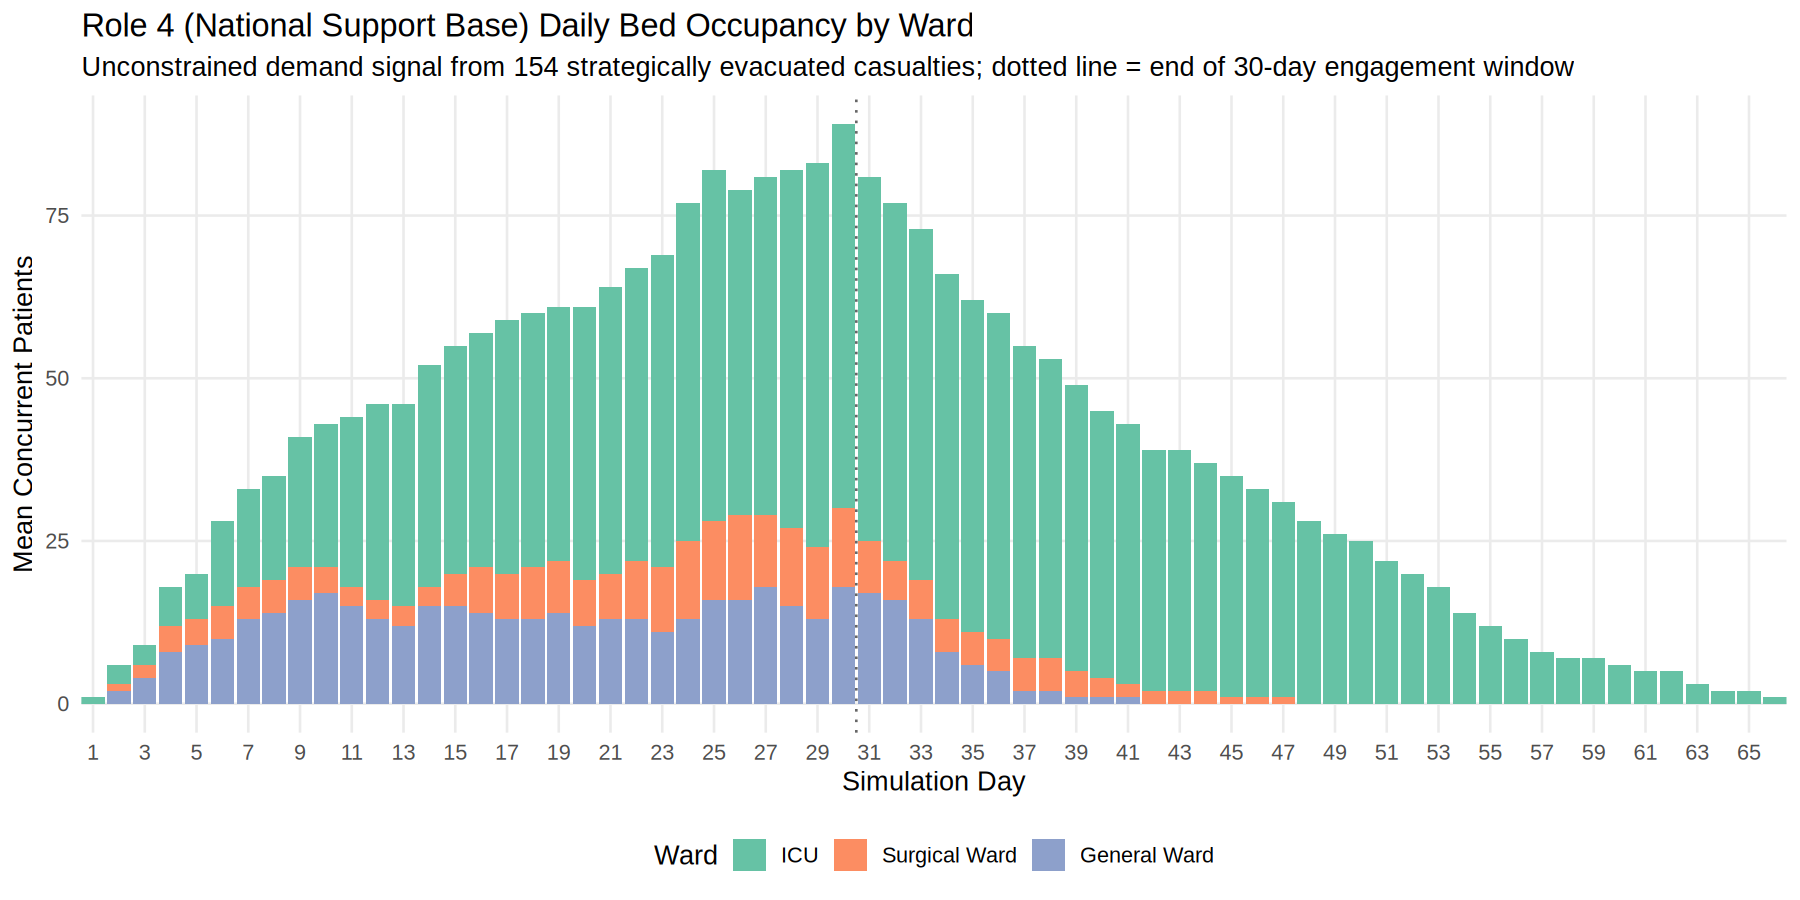
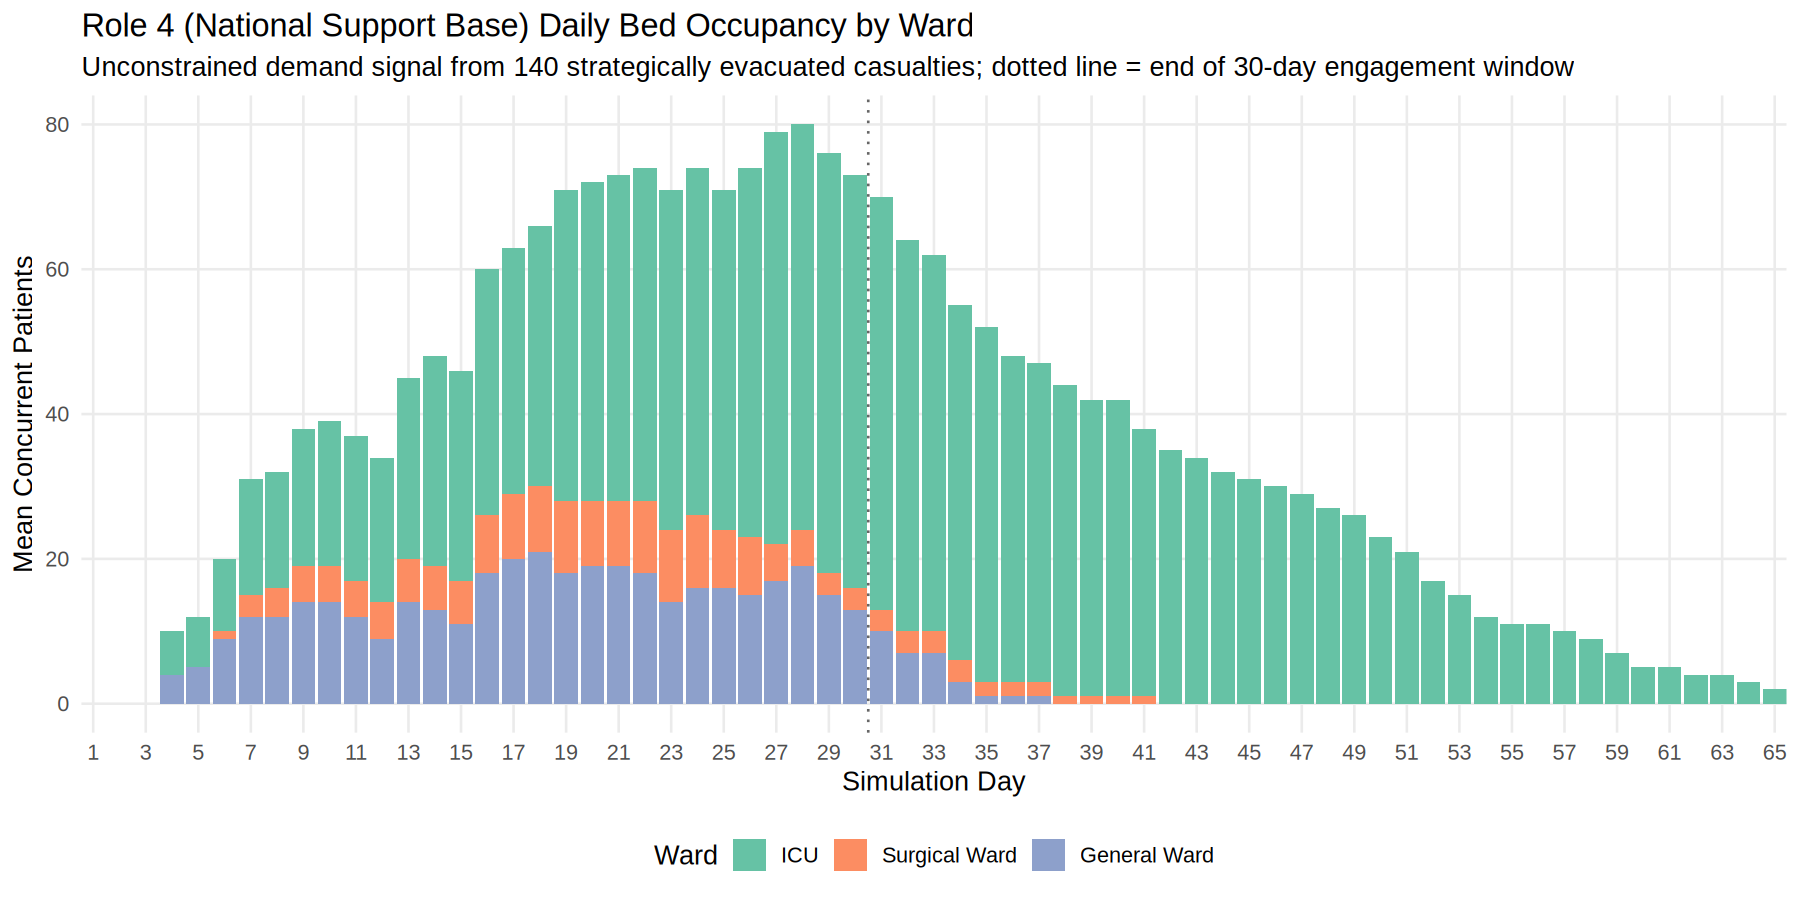
feat(issue-23): model strategic AME as a scheduled, capacity-constrained resource
Extends the Role 4 demand model with an actual simmer resource for
strategic AME transport, rather than treating evacuation as instantaneous.
AME is a single theatre-wide resource, available only on a configurable
periodic schedule (env_data.json vars.role4.ame.schedule_interval_days)
with a per-sortie failure/cancellation probability
(failure_probability) and fixed capacity per successful sortie
(capacity_per_sortie, reused from the original Role 4 work). Casualties
reaching the R2E Strategic Evac disposition now seize a real R2E bed —
ICU for Priority 1 surgical evacuees, Hold otherwise, mirroring the
existing Role 4 ward mapping — and queue on the "ame" resource until a
sortie has spare capacity, releasing the bed only once actually boarded.
AME capacity is additive (never reset), since boarded casualties never
release the resource; a fixed/reset capacity value was caught during
verification permanently capping total-ever-admitted the first time
server count reached it.

New outputs: ame_wait_time_summary (decision-to-boarding wait, n still
queued at end of run) and ame_backlog_plot (queue depth over time),
measuring the real constrained resource. The prior compute_ame_demand()
is retained as an explicit unconstrained-baseline comparison, now
grouped by evacuation_decision_day rather than the schedule-gated
evacuation_day. Role 4 (the national support base hospital) remains
unconstrained demand, now admitted from actual AME departure day rather
[…]

Changed region(s): [[0.0311, 0.1244, 0.9956, 0.84], [0.28, 0.0622, 0.3111, 0.0933], [0.0311, 0.5911, 0.0622, 0.6222]]

diff --git a/README.md b/README.md
@@ -1401,52 +1401,72 @@ flowchart TD
     V --> W["Release Hold Bed"]
     W --> X["Return to Duty"]
     X --> Z
-    T -- No --> Y["Strategic Evacuation"]
-    Y --> Z
+    T -- No --> Y{"Priority 1 &<br>Surgical?"}
+    Y -- Yes --> Y1["Seize ICU Bed<br>(Await AME)"]
+    Y -- No --> Y2["Seize Hold Bed<br>(Await AME)"]
+    Y1 --> Y3["Seize AME<br>(queues until sortie capacity)"]
+    Y2 --> Y3
+    Y3 --> Y4["Release ICU/Hold Bed"]
+    Y4 --> Z
 ```
 
 ---
 
 ### Role 4 (National Support Base) Demand Modelling
 
-Prior to Issue #23, casualties reaching the strategic evacuation decision (`r2e_evac = 1`, R2E Heavy Trajectory Phase 5) were recorded as departing the theatre system and produced no downstream output: there was no estimate of Role 4 (national support base) bed occupancy, and no derived metric for strategic aeromedical evacuation (AME) sortie demand. This sub-section completes the causal chain from theatre medical policy through to national health system demand — the outbound complement to Issue #18's inbound force-regeneration modelling (see [Force Regeneration and the Endogenous Feedback Loop](#6-force-regeneration-and-the-endogenous-feedback-loop)):
+Prior to Issue #23, casualties reaching the strategic evacuation decision (`r2e_evac = 1`, R2E Heavy Trajectory Phase 5) were recorded as departing the theatre system and produced no downstream output: there was no estimate of Role 4 (national support base) bed occupancy, and no derived metric for strategic aeromedical evacuation (AME) sortie demand. This section completes the causal chain from theatre medical policy through to national health system demand — the outbound complement to Issue #18's inbound force-regeneration modelling (see [Force Regeneration and the Endogenous Feedback Loop](#6-force-regeneration-and-the-endogenous-feedback-loop)):
 
 ```
 Theatre policy → evacuation rate → force depletion        (Issue #18)
-Theatre policy → evacuation rate → Role 4 load             (Issue #23, this section)
+Theatre policy → evacuation rate → Role 4 load             (Issue #23)
+Theatre policy → AME schedule/capacity → evacuation delay   (Issue #23 follow-up, this section)
 ```
 
-Role 4 is modelled as **unconstrained demand**, not as a simmer resource with finite capacity: `compute_role4_census()` and `compute_ame_demand()` (`R/analysis.R`) run as a post-simulation calculation over the evacuation event log, consistent with the model's purpose as a theatre-level demand estimation tool rather than a capacity planning model for the national support base. The output is a demand signal for national planners, not a queuing outcome — see Limitations for the consequence of this design choice.
+The model has two distinct layers, developed in two stages. **Role 4** (the national support base hospital) is modelled as **unconstrained demand**: `compute_role4_census()` (`R/analysis.R`) is a post-simulation calculation over the evacuation event log, consistent with the model's purpose as a theatre-level demand estimation tool rather than a capacity planning model for the national support base — see Limitations for the consequence of this design choice. **Strategic AME** (the transport that gets a casualty from R2E to Role 4), by contrast, *is* modelled as a constrained simmer resource: a single theatre-wide `"ame"` resource, available only on a configurable schedule with a per-sortie failure probability and fixed capacity, seized only from the R2E Heavy Strategic Evac disposition. A casualty who reaches that disposition continues to occupy a real R2E bed — not merely an entry in a post-simulation log — for as long as it takes a scheduled sortie to have spare capacity.
 
-**Attribute capture.** At the single point in the model where a casualty is assigned to strategic evacuation (R2E Heavy Trajectory, Phase 5 — Final Disposition), four attributes are captured: `injury_type` (1 = WIA, 2 = DNBI; set at R1 arrival from the casualty's generator-assigned name), `priority` (already captured at R1), `treatment_received` (1 if the casualty underwent DAMCON surgery at either R2B or R2E, else 0), and `evacuation_day` (the simulation day, 1-indexed, on which `r2e_evac` was set).
+**Attribute capture.** At the point a casualty is assigned to strategic evacuation (R2E Heavy Trajectory, Phase 5 — Final Disposition), `r2e_evac = 1` is set along with `evacuation_decision_day` (the simulation day the disposition was decided) and `treatment_received` (1 if the casualty underwent DAMCON surgery at either R2B or R2E, else 0); `priority` and `injury_type` were already captured at R1. The casualty then seizes an R2E bed and queues for AME (see below); only once actually boarded are `ame_departure_time`, `evacuation_day` (the simulation day of *actual* departure), and `ame_wait_minutes` (`ame_departure_time − r2e_departure_time`) set. `r2e_departure_time` itself keeps its original meaning — clinical care concluded, disposition decided — so the pre-existing R2E Dwell Time KPI (Domain 2) is unaffected by this section; AME wait is deliberately tracked as a separate metric rather than folded into clinical dwell.
 
-**Length-of-stay categories and ward mapping.** Each evacuated casualty is assigned to one of four length-of-stay (LoS) categories, each parameterised as a triangular distribution in `env_data.json` (`vars.role4.los_*`), and a ward category for the occupancy census:
+**Length-of-stay categories and ward mapping.** Each evacuated casualty is assigned to one of four length-of-stay (LoS) categories, each parameterised as a triangular distribution in `env_data.json` (`vars.role4.los_*`), and a ward category used both for the Role 4 occupancy census *and* — new in this section — to decide which R2E bed type a casualty occupies while awaiting AME:
 
-| LoS category | Assignment criteria | Ward | `env_data.json` key |
-|---|---|---|---|
-| P1 Surgical | Priority 1, `treatment_received = 1` | ICU | `los_p1_surgical` |
-| P1 Non-Surgical | Priority 1, `treatment_received = 0` | Surgical Ward | `los_p1_nonsurgical` |
-| P2 | Priority 2 (any `treatment_received`) | Surgical Ward | `los_p2` |
-| P3 / DNBI | Priority 3 WIA, or any DNBI casualty regardless of priority | General Ward | `los_p3_dnbi` |
+| LoS category | Assignment criteria | Ward | R2E bed occupied while awaiting AME | `env_data.json` key |
+|---|---|---|---|---|
+| P1 Surgical | Priority 1, `treatment_received = 1` | ICU | ICU bed | `los_p1_surgical` |
+| P1 Non-Surgical | Priority 1, `treatment_received = 0` | Surgical Ward | Hold bed | `los_p1_nonsurgical` |
+| P2 | Priority 2 (any `treatment_received`) | Surgical Ward | Hold bed | `los_p2` |
+| P3 / DNBI | Priority 3 WIA, or any DNBI casualty regardless of priority | General Ward | Hold bed | `los_p3_dnbi` |
+
+R2E has no physical Surgical Ward or General Ward bed type — only ICU and Hold — so both non-ICU ward categories share the R2E `hold_bed` pool while awaiting AME.
 
 > **MODEL ASSUMPTION — Role 4 Ward/LoS Category Mapping:** DNBI casualties are assigned the P3/DNBI length-of-stay category and General Ward irrespective of their in-theatre triage priority, and Priority 2 casualties are assigned Surgical Ward irrespective of whether they underwent a theatre-level surgical procedure.
 > **Basis:** Informed estimation. DNBI conditions (disease, non-battle injury, battle fatigue) are treated as inherently lower-acuity for national-level length-of-stay purposes, consistent with this model's existing treatment of `dnbi_type` for DOW exemption and RTD sub-typing (see [Died of Wounds](#died-of-wounds) and [Return to Duty](#return-to-duty)). Priority 2 casualties are assumed to require ongoing orthopaedic/surgical-specialty ward management at the national support base even where no operative procedure occurred in theatre, following the general LoS gradient by injury severity described in Nessen et al. (2008) [[52]](#References). No open-access source tabulates Role 4 ward assignment by this exact category scheme.
 > **Uncertainty:** High
-> **Consequence if wrong:** A different mapping (e.g. splitting P2 by `treatment_received`, or assigning DNBI its own ward category) would redistribute occupancy between Surgical Ward and General Ward without changing total Role 4 bed-days; ICU occupancy (P1 Surgical only) is the least sensitive to this assumption.
+> **Consequence if wrong:** A different mapping (e.g. splitting P2 by `treatment_received`, or assigning DNBI its own ward category) would redistribute occupancy between Surgical Ward and General Ward without changing total Role 4 bed-days, and would redistribute which R2E bed type (ICU vs Hold) AME-awaiting casualties occupy; ICU occupancy (P1 Surgical only) is the least sensitive to this assumption.
 
 > **MODEL ASSUMPTION — Role 4 Length-of-Stay Distribution Parameters:** The four triangular LoS distributions (`env_data.json` `vars.role4.los_p1_surgical/los_p1_nonsurgical/los_p2/los_p3_dnbi`; min/mode/max in days: 10/21/45, 7/14/30, 5/10/21, 2/5/14 respectively) are informed estimates reflecting a general severity gradient — longest stays for surgical Priority 1 casualties, shortest for DNBI/Priority 3 — rather than values extracted directly from a single tabulated source.
 > **Basis:** Informed estimation (Source Prioritisation level 5), directionally consistent with the Role 4/CONUS length-of-stay patterns for combat casualties by injury category described in Nessen et al. (2008) [[52]](#References). This source has not been used to extract exact per-category day counts for this model; a direct extraction of tabulated LoS data from it is identified as further development work.
 > **Uncertainty:** High
 > **Consequence if wrong:** Peak Role 4 occupancy and total bed-days scale roughly linearly with the LoS parameters; an error in the mode values directly biases the peak occupancy estimate reported to national planners, but does not affect any theatre-level (R1/R2B/R2E) output, since Role 4 census is computed downstream of, and independent from, all in-theatre simulation logic.
 
-**AME sortie demand.** Strategic AME sortie demand is a secondary, derived planning metric — not a simulated resource constraint — computed as `sorties_required = ceiling(daily_evacuation_count / ame_capacity_per_sortie)`, with `ame_capacity_per_sortie` configured in `env_data.json` (`vars.role4.ame.capacity_per_sortie`).
+**Strategic AME resource.** AME is available only at scheduled sortie opportunities, every `vars.role4.ame.schedule_interval_days` days (`build_ame_sortie_trajectory()`, driven by its own generator in `run_once()`, `R/replication.R`). At each opportunity, the sortie is cancelled with probability `vars.role4.ame.failure_probability`; if it flies, `vars.role4.ame.capacity_per_sortie` casualties' worth of capacity is added to the theatre-wide `"ame"` simmer resource (`set_capacity(..., mod = "+")`). Casualties queue on `"ame"` in the order they reach the Strategic Evac disposition (FIFO) and are admitted as soon as capacity allows, continuing to occupy their R2E bed the entire time.
 
-> **MODEL ASSUMPTION — AME Platform Capacity per Sortie:** A single strategic AME sortie is assumed to carry 20 casualties.
-> **Basis:** Informed estimation. AJP-4.10(B) [[21]](#References) establishes strategic AME as a planning function without prescribing a universal per-sortie patient capacity, since actual capacity depends on the specific platform, litter/ambulatory mix, and medical crew configuration deployed for a given sortie. No open-access source tabulating a specific per-sortie patient capacity figure has been identified; no casualty-acuity-dependent capacity discount is applied either — the model treats all evacuees as consuming one unit of sortie capacity regardless of LoS category or ward assignment.
+> **MODEL ASSUMPTION — AME Schedule Interval and Failure Probability Defaults:** The shipped defaults are a sortie every 3 days (`schedule_interval_days = 3`) with a 15% cancellation probability (`failure_probability = 0.15`).
+> **Basis:** Informed estimation. AJP-4.10(B) [[21]](#References) establishes strategic AME as a planning function without prescribing a specific cadence or failure rate — actual tasking frequency and weather/airframe cancellation rates are platform-, theatre-, and campaign-specific and not tabulated in any open-access source identified for this model.
 > **Uncertainty:** High
-> **Consequence if wrong:** Total and peak daily sortie demand scale inversely with this parameter; sortie demand is proportional to daily evacuation count by construction, so the demand *pattern* (which days are busiest) is unaffected by the capacity value chosen, only the absolute sortie count.
+> **Consequence if wrong:** These two parameters jointly determine the AME backlog: a longer interval or higher failure rate increases both the peak backlog (see AME Backlog Over Time, Domain 7) and mean wait time roughly proportionally, without changing the underlying evacuation demand they are being compared against.
 
-**Multi-run aggregation.** When `analyse_run()` is called with multi-replication monitoring data (Issue #1 framework), peak Role 4 occupancy and total AME sortie demand are additionally summarised as mean ± 95% CI across replications (`role4_replication_summary`, `ame_replication_summary`), using the same t-distribution CI convention as `summarise_replications()` (`R/replication.R`).
+> **MODEL ASSUMPTION — AME Capacity Banking:** Unclaimed capacity from an under-subscribed sortie is not lost — it persists on the `"ame"` resource and can be claimed by a later arrival, including between scheduled sorties, rather than being wasted the way a real aircraft's empty seats would be once it departs.
+> **Basis:** Engineering necessity, not a doctrinal claim. Casualties who board AME never release the resource (permanent consumption, matching a one-way strategic evacuation), so `"server"` (casualties ever admitted) is monotonically non-decreasing for the whole run. Setting capacity to an *absolute* value at each sortie (rather than adding to it) would cap total-ever-admitted at that value the first time the server count reaches it — the resource would never "reopen" for a later sortie, which was caught as a bug during this section's own verification (see the test plan). Additive capacity is the only mechanism compatible with never-release semantics.
+> **Uncertainty:** Low (mechanism), Medium (real-world fidelity)
+> **Consequence if wrong:** Under configurations where demand comfortably exceeds no single sortie's capacity (the shipped default — see the seed-42 results below), banking rarely matters in practice, since the backlog is rarely fully cleared between sorties. It would matter more under a configuration with infrequent, large-capacity sorties against sparse demand, where a real system would waste more capacity than this model does.
+
+> **MODEL ASSUMPTION — AME Boarding Order (FIFO, No Acuity Priority):** Casualties board AME strictly in the order they reached the Strategic Evac disposition — no Priority 1 casualty is boarded ahead of a Priority 3/DNBI casualty who queued earlier.
+> **Basis:** Simmer's default resource queuing discipline (FIFO), used as the simplest tractable default. Real strategic AME tasking doctrine (AJP-4.10(B) [[21]](#References)) prioritises by clinical acuity, not queue order.
+> **Uncertainty:** High
+> **Consequence if wrong:** Under a saturated schedule (backlog rarely clears — see Limitations), FIFO boarding could leave a high-acuity casualty waiting behind several lower-acuity casualties who queued earlier, understating the wait-time benefit acuity-based prioritisation would provide to Priority 1 casualties specifically. Aggregate wait-time statistics (mean, p10/p90 across all evacuees) are unaffected by boarding order — only the distribution of wait time *by priority* would change.
+
+**Unconstrained-baseline AME demand.** `compute_ame_demand()` (`R/analysis.R`) is retained as a separate, deliberately *unconstrained* comparison: `sorties_required = ceiling(daily_evacuation_count / ame_capacity_per_sortie)`, grouped by `evacuation_decision_day` (not the schedule-gated `evacuation_day`) — i.e. "how many sorties would same-day, uncapped AME need to clear each day's decisions." Comparing this baseline against the real constrained resource's actual throughput (`ame_wait_time_summary`, `ame_backlog_plot` — see Domain 7 below) is what makes the schedule's adequacy (or inadequacy) visible.
+
+**Multi-run aggregation.** When `analyse_run()` is called with multi-replication monitoring data (Issue #1 framework), peak Role 4 occupancy and the unconstrained-baseline total sortie count are additionally summarised as mean ± 95% CI across replications (`role4_replication_summary`, `ame_replication_summary`), using the same t-distribution CI convention as `summarise_replications()` (`R/replication.R`).
 
 ---
 
@@ -1566,18 +1586,32 @@ The simulation produces a defined set of Key Performance Indicators (KPIs) organ
 ### Domain 7 — Strategic Evacuation and National Support Base Demand
 
 > **MODEL OUTPUT — Role 4 Daily Bed Occupancy by Ward:**
-> Mean concurrent Role 4 (national support base) patients by ward category (ICU, Surgical Ward, General Ward) per simulation day, derived from strategically evacuated casualties' assigned length-of-stay (see [Role 4 (National Support Base) Demand Modelling](#role-4-national-support-base-demand-modelling)).
+> Mean concurrent Role 4 (national support base) patients by ward category (ICU, Surgical Ward, General Ward) per simulation day, derived from strategically evacuated casualties' assigned length-of-stay, admitted from the day of *actual* AME departure (`evacuation_day`), not the day the evacuation decision was made (see [Role 4 (National Support Base) Demand Modelling](#role-4-national-support-base-demand-modelling)).
 > **Doctrinal basis:** AJP-4.10 [[21]](#References) mandates that Role 4 requirements be derived from theatre casualty estimates.
 > **Criteria:** C2, C3, C5
-> **Computation:** `compute_role4_census()` equivalent logic in `analyse_run()`: assign `los_category`/`ward` from `injury_type`, `priority`, `treatment_received`; draw `los_days` from the matching triangular distribution (`env_data$vars$role4`); expand each casualty into one row per occupied day between `evacuation_day` and `evacuation_day + ceiling(los_days) - 1`; average concurrent occupancy per `(day, ward)` across replications.
-> **Note:** This is an unconstrained demand signal, not a capacity-gated queuing outcome — see Limitations.
+> **Computation:** `compute_role4_census()` equivalent logic in `analyse_run()`: assign `los_category`/`ward` from `injury_type`, `priority`, `treatment_received` for casualties with a completed AME departure (`!is.na(evacuation_day)`); draw `los_days` from the matching triangular distribution (`env_data$vars$role4`); expand each casualty into one row per occupied day between `evacuation_day` and `evacuation_day + ceiling(los_days) - 1`; average concurrent occupancy per `(day, ward)` across replications.
+> **Note:** Role 4 itself remains an unconstrained demand signal, not a capacity-gated queuing outcome (see Limitations) — but its *input* (which casualties have reached Role 4, and when) is now gated by the real constrained AME resource below, not merely the evacuation decision.
 
-> **MODEL OUTPUT — Strategic AME Sortie Demand:**
-> Daily and cumulative strategic aeromedical evacuation sortie requirements, derived from daily strategic evacuation counts and a configurable platform capacity.
+> **MODEL OUTPUT — Unconstrained-Baseline AME Sortie Demand:**
+> Daily and cumulative strategic aeromedical evacuation sortie requirements *if* AME had same-day, uncapped capacity — a theoretical comparison baseline, not a prediction of actual throughput (see the real constrained-resource outputs below).
 > **Doctrinal basis:** AJP-4.10 [[21]](#References) strategic evacuation planning function.
 > **Criteria:** C2, C4, C5
-> **Computation:** `sorties_required = ceiling(daily_evacuation_count / ame_capacity_per_sortie)` (`env_data$vars$role4$ame$capacity_per_sortie`); `cumulative_sorties = cumsum(sorties_required)`.
-> **Note:** A derived planning metric, not a simulated resource constraint — AME prioritisation and sequencing logic are not modelled (see Limitations).
+> **Computation:** `sorties_required = ceiling(daily_evacuation_count / ame_capacity_per_sortie)` grouped by `evacuation_decision_day` (`env_data$vars$role4$ame$capacity_per_sortie`); `cumulative_sorties = cumsum(sorties_required)`.
+> **Note:** A derived planning metric, not a simulated resource constraint.
+
+> **MODEL OUTPUT — Strategic AME Wait Time:**
+> Elapsed time (minutes) from evacuation decision (`r2e_departure_time`) to actual AME boarding (`ame_departure_time`), for casualties who have completed evacuation by the end of the run; also reports the count still queued (`n_awaiting`) at end of run.
+> **Doctrinal basis:** AJP-4.10 [[21]](#References) strategic evacuation timeliness planning.
+> **Criteria:** C2, C4, C5
+> **Computation:** `ame_wait_minutes = ame_departure_time - r2e_departure_time`, computed in the R2E Heavy Trajectory's Strategic Evac branch at the moment `seize("ame", 1)` succeeds; `analyse_run()` reports `n_evacuated`, `n_awaiting`, and mean/p10/p90 `ame_wait_minutes` (`ame_wait_time_summary`).
+> **Note:** No acuity-based boarding priority is modelled — see MODEL ASSUMPTION — AME Boarding Order.
+
+> **MODEL OUTPUT — Strategic AME Backlog Over Time:**
+> Count of casualties simultaneously awaiting AME sortie capacity (each occupying an R2E ICU or Hold bed), by simulation time.
+> **Doctrinal basis:** AJP-4.10 [[21]](#References) — backlog size is the direct visible consequence of a schedule/capacity combination inadequate to theatre demand.
+> **Criteria:** C3, C4, C5
+> **Computation:** The `queue` column of the simmer resource monitor for the `"ame"` resource (`ame_backlog_plot`), stepped over simulation time; faceted by replication when more than one is present.
+> **Note:** Because AME-awaiting casualties occupy a real R2E ICU or Hold bed, a sustained high backlog here also directly increases contention on those beds for unrelated post-operative recovery casualties — see Limitations.
 
 ---
 
@@ -1598,7 +1632,9 @@ The simulation produces a defined set of Key Performance Indicators (KPIs) organ
 | R2B bypass rate | Flow/disposition | `r2b_treated`, `r2e_treated` | C2–C4 | derived in `combined` |
 | Total RTD count (bf + clinical) | Combat power | `return_day`, `dnbi_type` | C2, C5 | `bf_rtd`, `clinical_rtd`, `total_rtd` |
 | Role 4 bed occupancy by ward | Strategic evac/Role 4 | `r2e_evac`, `injury_type`, `priority`, `treatment_received`, `evacuation_day` | C2, C3, C5 | `role4_census_daily`, `role4_summary`, `role4_replication_summary` |
-| Strategic AME sortie demand | Strategic evac/Role 4 | `r2e_evac`, `evacuation_day` | C2, C4, C5 | `ame_demand_daily`, `ame_summary`, `ame_replication_summary` |
+| Unconstrained-baseline AME sortie demand | Strategic evac/Role 4 | `r2e_evac`, `evacuation_decision_day` | C2, C4, C5 | `ame_demand_daily`, `ame_summary`, `ame_replication_summary` |
+| Strategic AME wait time | Strategic evac/Role 4 | `r2e_departure_time`, `ame_departure_time`, `ame_wait_minutes` | C2, C4, C5 | `ame_wait_time_summary` |
+| Strategic AME backlog over time | Strategic evac/Role 4 | resource monitor (`"ame"`) | C3–C5 | `ame_backlog_plot` |
 
 ---
 
@@ -1815,15 +1851,23 @@ At `high_intensity` casualty rates, the mechanism is unambiguous: daily volume f
 
 ### Strategic Evacuation and Role 4 Demand
 
-This section presents the seed-42 30-day single-run Role 4 (national support base) demand outputs (Issue #23; see [Role 4 (National Support Base) Demand Modelling](#role-4-national-support-base-demand-modelling)). Of the 386 total casualties generated, 154 reached the strategic evacuation decision (`r2e_evac = 1`) — a demand signal on the national support base that, prior to this issue, produced no downstream output at all.
+This section presents the seed-42 30-day single-run Role 4 (national support base) and strategic AME outputs (Issue #23 and its follow-up; see [Role 4 (National Support Base) Demand Modelling](#role-4-national-support-base-demand-modelling)). Of the 386 total casualties generated, 148 reached the strategic evacuation decision (`r2e_evac = 1`); of those, 140 had actually boarded an AME sortie and reached Role 4 by the end of the 30-day run, with 8 still queued and occupying an R2E bed.
 
 ![Role 4 (National Support Base) Daily Bed Occupancy by Ward](images/role4_census.png)
 
-Daily bed occupancy rises through the 30-day engagement window, reaching a peak of 89 concurrent patients (all wards combined) on day 30, then decays smoothly to zero by approximately day 66 as assigned lengths of stay expire — the plausible peak-and-decay shape the census is designed to produce. Occupancy is concentrated in ICU (Priority 1 surgical evacuees), consistent with the ICU-bound care pathway already dominant at R2E (see [R2E Heavy Handling](#r2e-heavy-handling)). AME sortie demand, derived from daily evacuation counts at the shipped `ame_capacity_per_sortie = 20`, totals 30 sorties across the run — one sortie on all but the busiest days, none of which reach the 20-casualty single-sortie capacity individually.
+Daily Role 4 bed occupancy rises through the engagement window, reaching a peak of 80 concurrent patients (all wards combined) on day 28, then decays smoothly to zero by approximately day 65 as assigned lengths of stay expire — the plausible peak-and-decay shape the census is designed to produce. Occupancy is concentrated in ICU (Priority 1 surgical evacuees), consistent with the ICU-bound care pathway already dominant at R2E (see [R2E Heavy Handling](#r2e-heavy-handling)).
 
-As a directional check on the acceptance criterion that Role 4 load should respond correctly to theatre medical policy, re-running the same seed-42 30-day configuration with `r2eheavy.recovery.in_theatre_rate` raised from the shipped 0.1 to 0.5 (i.e. materially more casualties recovering in theatre rather than being strategically evacuated) reduces total strategic evacuations from 154 to 60 and peak Role 4 occupancy from 89 to 31 — confirming that increasing in-theatre recovery capacity reduces Role 4 load, in the expected direction. This comparison run is illustrative only and does not alter the documented `in_theatre_rate = 0.1` baseline.
+![Strategic AME Backlog Over Time](images/ame_backlog.png)
 
-> **Reproducibility note:** the figures above were produced in an ad hoc R 4.3.3 sandbox (not the project's pinned `rocker/rstudio:4.4.2` Dev Container), following the same practice and caveat used for prior unpinned-sandbox figures in this project (see the `CLAUDE.md` Key Parameters provenance caveat). All other seed-42 KPIs printed by this run (total casualties, R2B routing counts, R2E post-op pathway split) matched the documented post-Issue-18 baseline in `CLAUDE.md` exactly, confirming this issue's changes are RNG-stream-neutral — no other seed-42 baseline figure in this README or `CLAUDE.md` is affected.
+Against this demand, the shipped AME configuration (a sortie every 3 days, 15% cancellation probability, 20-casualty capacity per successful sortie) comfortably keeps pace: mean wait from evacuation decision to actual boarding is 0.3 days (p10–p90: same-day to 1.0 day), and the backlog shown above is cleared to zero after nearly every successful sortie, spiking only when a scheduled sortie is cancelled (visible as taller peaks, e.g. around day 12) or during the day 9–11 demand surge. The unconstrained theoretical baseline — same-day, uncapped AME — would have needed only 30 total sorties across the run at the same per-sortie capacity; the real schedule flew roughly 9 successful sorties (10 opportunities at a 15% failure rate) carrying up to 20 each, i.e. supply comfortably exceeds demand at this casualty rate, which is why the backlog clears so completely between sorties rather than accumulating.
+
+A secondary, non-obvious effect of this section: because AME-awaiting casualties now occupy a real R2E ICU or Hold bed rather than departing instantly, R2E ICU/Hold contention rises measurably relative to the Issue #23 baseline (which held AME wait time at zero). Comparing this run's R2E post-operative pathway split against the documented pre-follow-up baseline (`CLAUDE.md`: icu=110, hold=14) to this run's (icu=85, hold=45) illustrates the shift; see the note below on why this comparison is not a regression, and Limitations for the systemic-coupling consequence.
+
+As a directional check on the acceptance criterion that Role 4 load should respond correctly to theatre medical policy, re-running the same seed-42 30-day configuration with `r2eheavy.recovery.in_theatre_rate` raised from the shipped 0.1 to 0.5 (i.e. materially more casualties recovering in theatre rather than being strategically evacuated) reduces casualties reaching Role 4 from 140 to 86 and peak Role 4 occupancy from 80 to 52 — confirming that increasing in-theatre recovery capacity reduces Role 4 load, in the expected direction, with the AME resource now in the loop. This comparison run is illustrative only and does not alter the documented `in_theatre_rate = 0.1` baseline.
+
+> **Reproducibility note:** the figures above were produced in an ad hoc R 4.3.3 sandbox (not the project's pinned `rocker/rstudio:4.4.2` Dev Container), following the same practice and caveat used for prior unpinned-sandbox figures in this project (see the `CLAUDE.md` Key Parameters provenance caveat).
+>
+> Unlike the original Issue #23 attribute-capture work (RNG-stream-neutral), the AME follow-up in this section **is not RNG-stream-neutral**: the periodic AME sortie generator (`build_ame_sortie_trajectory()`) draws a `runif()` per scheduled sortie opportunity, interleaved in event time with casualty trajectory execution, and casualties now hold R2E ICU/Hold beds for a variable AME wait rather than releasing them (or never seizing them) instantly — both change downstream RNG draw timing and resource contention for the rest of the run. Every seed-42 KPI printed by this run *downstream* of R2E disposition differs from the documented post-Issue-18 baseline in `CLAUDE.md` (e.g. R2B pre-bypass 112 → 111, R2B OT bypass team-off-shift 61 → 63, R2E post-op pathway icu=110/hold=14 → icu=85/hold=45); total casualty count (386) and all pre-R2E-disposition figures are unaffected, consistent with the RNG-stream-shift pattern already documented for prior merges (Issue #43, #73, #76, #18). A maintainer re-run in the pinned container, and a `CLAUDE.md` Key Parameters table refresh, are needed before these figures are fully authoritative — see the Post-Merge Checklist in `CLAUDE.md`.
 
 ### Comparative Scenario Analysis
 
@@ -1922,8 +1966,11 @@ The Priority 1 override threshold, the post-op hold penalty multiplier (3.0), an
 **L12 — Falklands KIA:WIA Ratio, High Intensity Skeleton Incompleteness, and Missing Vietnam Source (Medium Impact on Scenario Validation)**
 The `moderate_intensity` scenario profile (Issue #54, see [Scenario Profiles](#scenario-profiles)) reproduces a KIA:WIA ratio of 0.452 across 30 replications, against the published 255 KIA : 777 WIA (0.328) South Atlantic campaign record [[43]](#References). This ratio is a pre-existing characteristic of the base `generators.wia_cbt`/`generators.kia_cbt` casualty generation rates (FORECAS Table A.8 [[8]](#References), calibrated under Issue #1) combined with the lognormal-cap generation mechanism ([Casualty Generation](#casualty-generation)); it is not introduced or corrected by Issue #54, which overrides only the DOW ceiling and treatment efficacy factors. Separately, the `high_intensity` profile is an explicitly unvalidated demonstration skeleton: only casualty generation rates and distribution family are sourced (FORECAS Tables A.7/A.9 [[8]](#References)); DOW ceiling, treatment efficacy, priority distribution, DNBI composition, and transport times are inherited from the Falklands-calibrated base rather than sourced for the Okinawa context. No Vietnam-calibrated profile exists in this project: FORECAS's Appendix A has no standalone Vietnam combat-troop WIA/KIA distribution table (only a DNBI table), so no genuinely FORECAS-sourced Vietnam parameters could be identified — a Vietnam scenario should wait for a source that actually tabulates it rather than being estimated without one. **Impact: Medium.** The DOW rate — the parameter Issue #54 is responsible for — is well within tolerance of its historical target; the KIA:WIA discrepancy, the `high_intensity` skeleton's incompleteness, and the absence of a sourced Vietnam profile would need to be addressed by a future issue (most likely Issue #10) revisiting the casualty generator calibration or completing a fully validated `high_intensity` scenario profile.
 
-**L16 — Role 4 Modelled as Unconstrained Demand; AME Prioritisation and Sequencing Not Modelled (Medium Impact on Strategic Evacuation Outputs)**
-The Role 4 census and AME sortie demand outputs (Issue #23; see [Role 4 (National Support Base) Demand Modelling](#role-4-national-support-base-demand-modelling)) are computed as a post-simulation calculation over the evacuation event log, not as a simmer resource with finite capacity. This means Role 4 bed occupancy can exceed any real-world national support base's actual bed count without producing a queue, deferral, or any other capacity-constrained behaviour in the model — the outputs are a demand *signal* for national planners, not a validated statement that the national support base can absorb that demand. Similarly, AME sortie demand (`ceiling(daily_evacuation_count / ame_capacity_per_sortie)`) assumes evacuees are cleared same-day at the computed sortie count; no prioritisation logic (e.g. P1 patients evacuated ahead of P3/DNBI when sortie capacity is limited on a given day), sequencing constraint (e.g. platform availability, aircrew duty cycles, weather), or backlog-carryover mechanism is modelled — each day's demand is treated independently. The LoS category/ward mapping and distribution parameters are also informed estimates rather than literature-extracted values (see the MODEL ASSUMPTION blocks in the Role 4 sub-section). **Impact: Medium.** The demand *signal* (relative magnitude and timing of Role 4 load and AME sortie requirements, and its correct-direction response to theatre-level policy changes such as `in_theatre_rate`) is the feature's intended contribution and is unaffected by this limitation; only an absolute capacity-adequacy claim about the national support base or AME fleet would require the additional constrained-resource and prioritisation modelling this issue deliberately does not implement (see Further Development).
+**L16 — Role 4 Modelled as Unconstrained Demand; AME Boarding Priority and Wait-Time Mortality Not Modelled (Medium Impact on Strategic Evacuation Outputs)** *(Partially resolved — Issue #23 follow-up)*
+Role 4 (the national support base) is still computed as a post-simulation calculation over the evacuation event log (`compute_role4_census()`), not as a simmer resource with finite capacity — Role 4 bed occupancy can exceed any real-world national support base's actual bed count without producing a queue, deferral, or any other capacity-constrained behaviour; the output is a demand *signal* for national planners, not a validated statement that the national support base can absorb that demand. Strategic AME, however, *is* now a constrained, scheduled simmer resource (see [Role 4 (National Support Base) Demand Modelling](#role-4-national-support-base-demand-modelling)), so the remaining gaps are narrower than originally scoped: (1) no acuity-based boarding priority is modelled — casualties board strictly FIFO by decision order, not by clinical priority (MODEL ASSUMPTION — AME Boarding Order); (2) no additional DOW risk is modelled while a casualty is queued awaiting AME — the R2E post-operative DOW checkpoint (`dow_echelon == 4`) fires once, before the Strategic Evac disposition, and no further mortality check occurs however long the subsequent AME wait is, which is optimistic for long-backlog scenarios; (3) unclaimed sortie capacity "banks" forward rather than being wasted (MODEL ASSUMPTION — AME Capacity Banking), a simplification with no real-world analogue; (4) the LoS category/ward mapping, LoS distribution parameters, and the AME schedule interval/failure probability defaults are all informed estimates rather than literature-extracted values (see the MODEL ASSUMPTION blocks in the Role 4 sub-section). **Impact: Medium.** The demand *signal* (relative magnitude and timing of Role 4 load, and its correct-direction response to theatre-level policy changes such as `in_theatre_rate` and to AME schedule/capacity changes) is the feature's intended contribution and is unaffected by these gaps; an absolute capacity-adequacy claim about the national support base, a wait-time mortality estimate, or an acuity-prioritised evacuation policy comparison would each require further modelling this section deliberately does not implement (see Further Development).
+
+**L17 — AME-Awaiting Casualties Compete for R2E ICU/Hold Beds with Post-Operative Recovery (Medium Impact on R2E Capacity Findings)**
+Because AME-awaiting casualties now occupy a real R2E ICU or Hold bed for the duration of their wait (Issue #23 follow-up — see [Role 4 (National Support Base) Demand Modelling](#role-4-national-support-base-demand-modelling)), they compete for the same finite bed pool as the OT–ICU gating mechanism's post-operative recovery patients (Issue #43; see [Died of Wounds — Post-Operative Checkpoint](#died-of-wounds)). At the shipped seed-42 baseline this shifts the R2E post-operative pathway split materially relative to the pre-follow-up baseline (`icu`=110/`hold`=14 → `icu`=85/`hold`=45 — see [Strategic Evacuation and Role 4 Demand](#strategic-evacuation-and-role-4-demand)), and increases how often the ICU-saturated bypass/defer paths engage. This is a genuine, intended emergent interaction — not a bug — reflecting the reality that a casualty awaiting strategic evacuation still occupies theatre medical capacity, which was the explicit motivation for this section. It was accepted as a deliberate design trade-off in preference to a separate, dedicated AME-holding bed pool (which would avoid the coupling but require a new resource type not grounded in any established R2E establishment structure). **Impact: Medium.** Existing R2E capacity findings and KPIs computed at the shipped AME schedule (where the backlog clears quickly — see [Strategic Evacuation and Role 4 Demand](#strategic-evacuation-and-role-4-demand)) are only modestly affected; a sparser AME schedule or higher failure probability would increase this coupling's effect on R2E ICU/OT-gating findings substantially, and any future scenario configuration that lengthens AME wait times should re-examine R2E capacity KPIs (Domain 3, Domain 4) alongside the Role 4/AME outputs (Domain 7) rather than in isolation.
 
 ### Low Impact
 
@@ -1959,7 +2006,7 @@ The single run analysis has demonstrated that while the current simulation frame
 
 Dead-heading return legs for pooled transport assets are now modelled (Issue #6; see Transport Assets — Dead-Heading Return Legs), and a fleet-size capacity margin sweep is now implemented (Issue #57; see [Transport Fleet Capacity Margin](#transport-fleet-capacity-margin)), quantifying how much margin the current establishment carries and at what fleet size the transport layer becomes a binding constraint. That sweep is run at the Falklands-derived casualty rate only. The immediate follow-on opportunity is to re-run it under Vietnam/Okinawa-intensity casualty rates (Issue #10; see [Comparative Scenario Analysis](#comparative-scenario-analysis)) and under mass casualty injection (Issue #9; see [Mass Casualty Event Stress Test](#mass-casualty-event-stress-test)), where the demand side of the margin is materially higher and the current always-large-margin finding may not hold — `plot_transport_capacity_margin_by_fleet_size()`'s `path` parameter allows sweeping against an env_data.json pre-configured for either scenario, but does not yet accept a scenario name directly.
 
-Another refinement involves pulsing strategic medical evacuation availability to simulate its temporal constraints. Rather than assuming continuous access to strategic lift, future iterations should model episodic availability windows, reflecting real-world limitations such as airframe tasking, weather delays, or air superiority conditions. This would allow for more realistic bottleneck formation and better inform prioritisation protocols for high-acuity casualties. Role 4 bed occupancy and AME sortie demand (Issue #23; see [Role 4 (National Support Base) Demand Modelling](#role-4-national-support-base-demand-modelling)) now provide the demand-side inputs — daily evacuation counts by acuity — this pulsed-availability model would need to consume; Role 4 remains modelled as unconstrained demand and AME prioritisation/sequencing logic remains unmodelled (Limitation L16) pending that follow-on work.
+Pulsing strategic medical evacuation availability to simulate its temporal constraints is now implemented (Issue #23 follow-up; see [Role 4 (National Support Base) Demand Modelling](#role-4-national-support-base-demand-modelling)): strategic AME is a scheduled, capacity-limited, failure-prone simmer resource rather than continuously available lift, with casualties occupying real R2E beds while queued. Two follow-ups remain, both tracked in Limitation L16: acuity-based boarding priority (currently strict FIFO) and DOW risk while awaiting a sortie (currently none — the post-operative DOW checkpoint fires once, before the wait begins). Role 4 (the national support base hospital itself) remains modelled as unconstrained demand — see Limitation L16.
 
 Model fidelity can also be improved through structured expert consultation. Engaging clinicians, medical planners, and operational commanders would support refinement of treatment durations, triage logic, and evacuation thresholds. This would ensure that the simulation reflects not only doctrinal intent but also clinical realities and operational constraints.
 